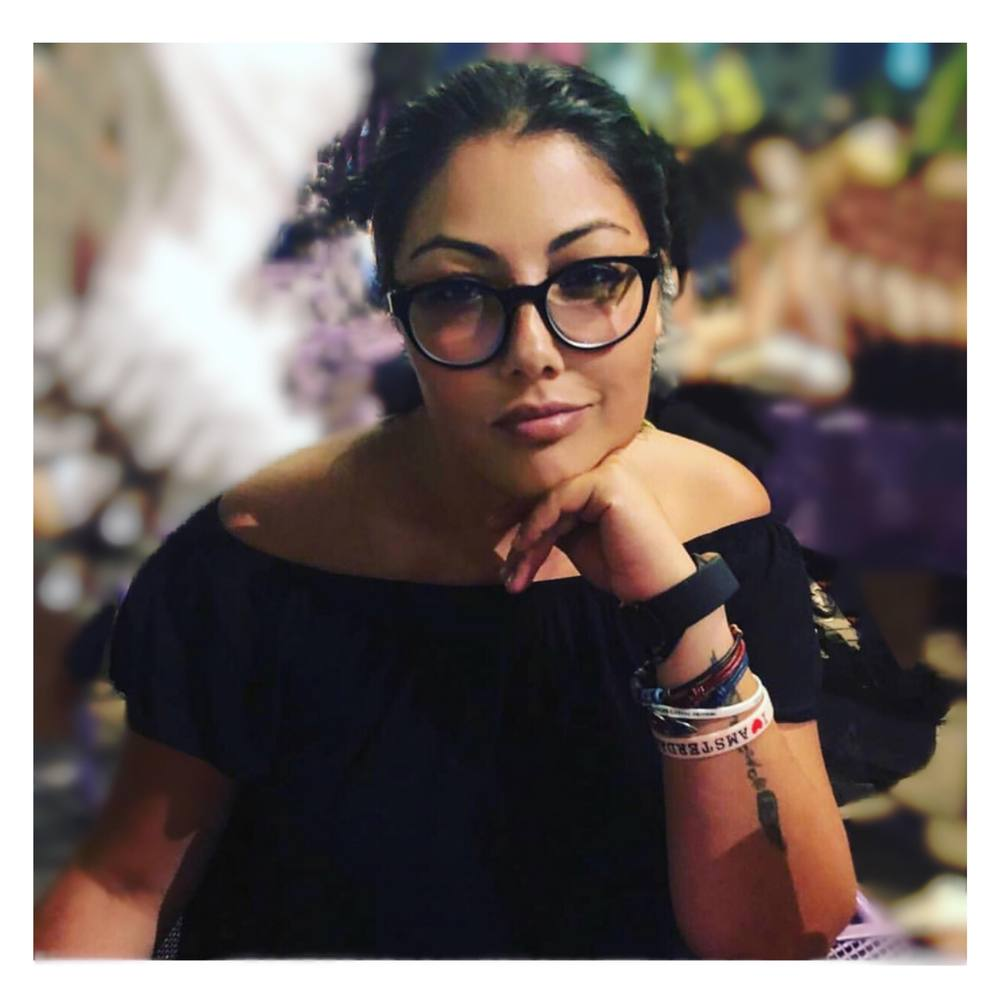
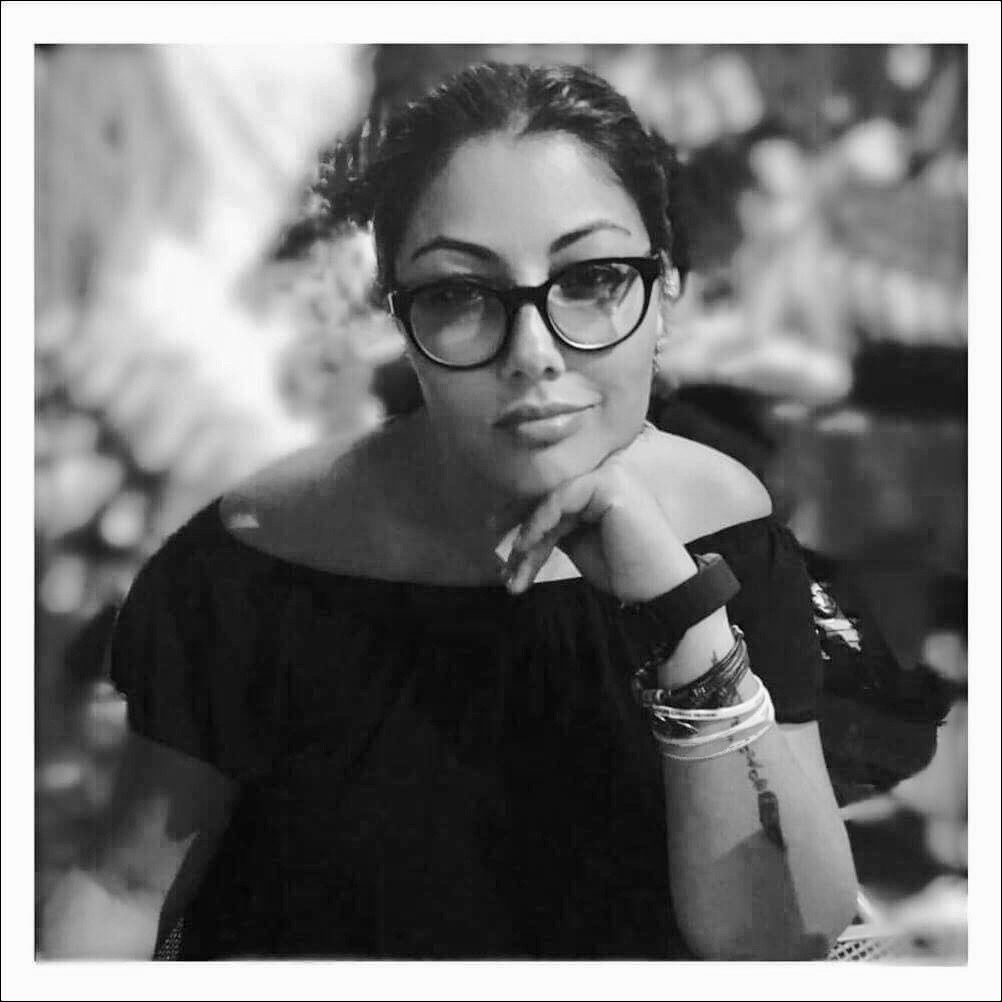
updated font and image

diff --git a/public/style.css b/public/style.css
@@ -84,13 +84,22 @@ nav#firstnav {
   margin-top: 50px;
   margin-left: 40px;
   width: 50.3333%;
+  font-family: 'Playfair Display', serif;
+  letter-spacing: .5px;
 }
 
 .writingtitle{
-  font-weight: 700;
+
+  font-weight: 300;
+  font-family:  'Raleway', sans-serif;
   text-transform: uppercase;
   margin-top:30px;
   margin-left: 40px;
+}
+
+
+.writingheadlin{
+
 }
 
 .table.table-hover{
@@ -316,6 +325,7 @@ h5.publiname-single{
 }
 .column__title{
   position: relative;
+  font-family: Lato;
   font-weight: 700;
   text-transform: uppercase;
   padding-left: 4em;
